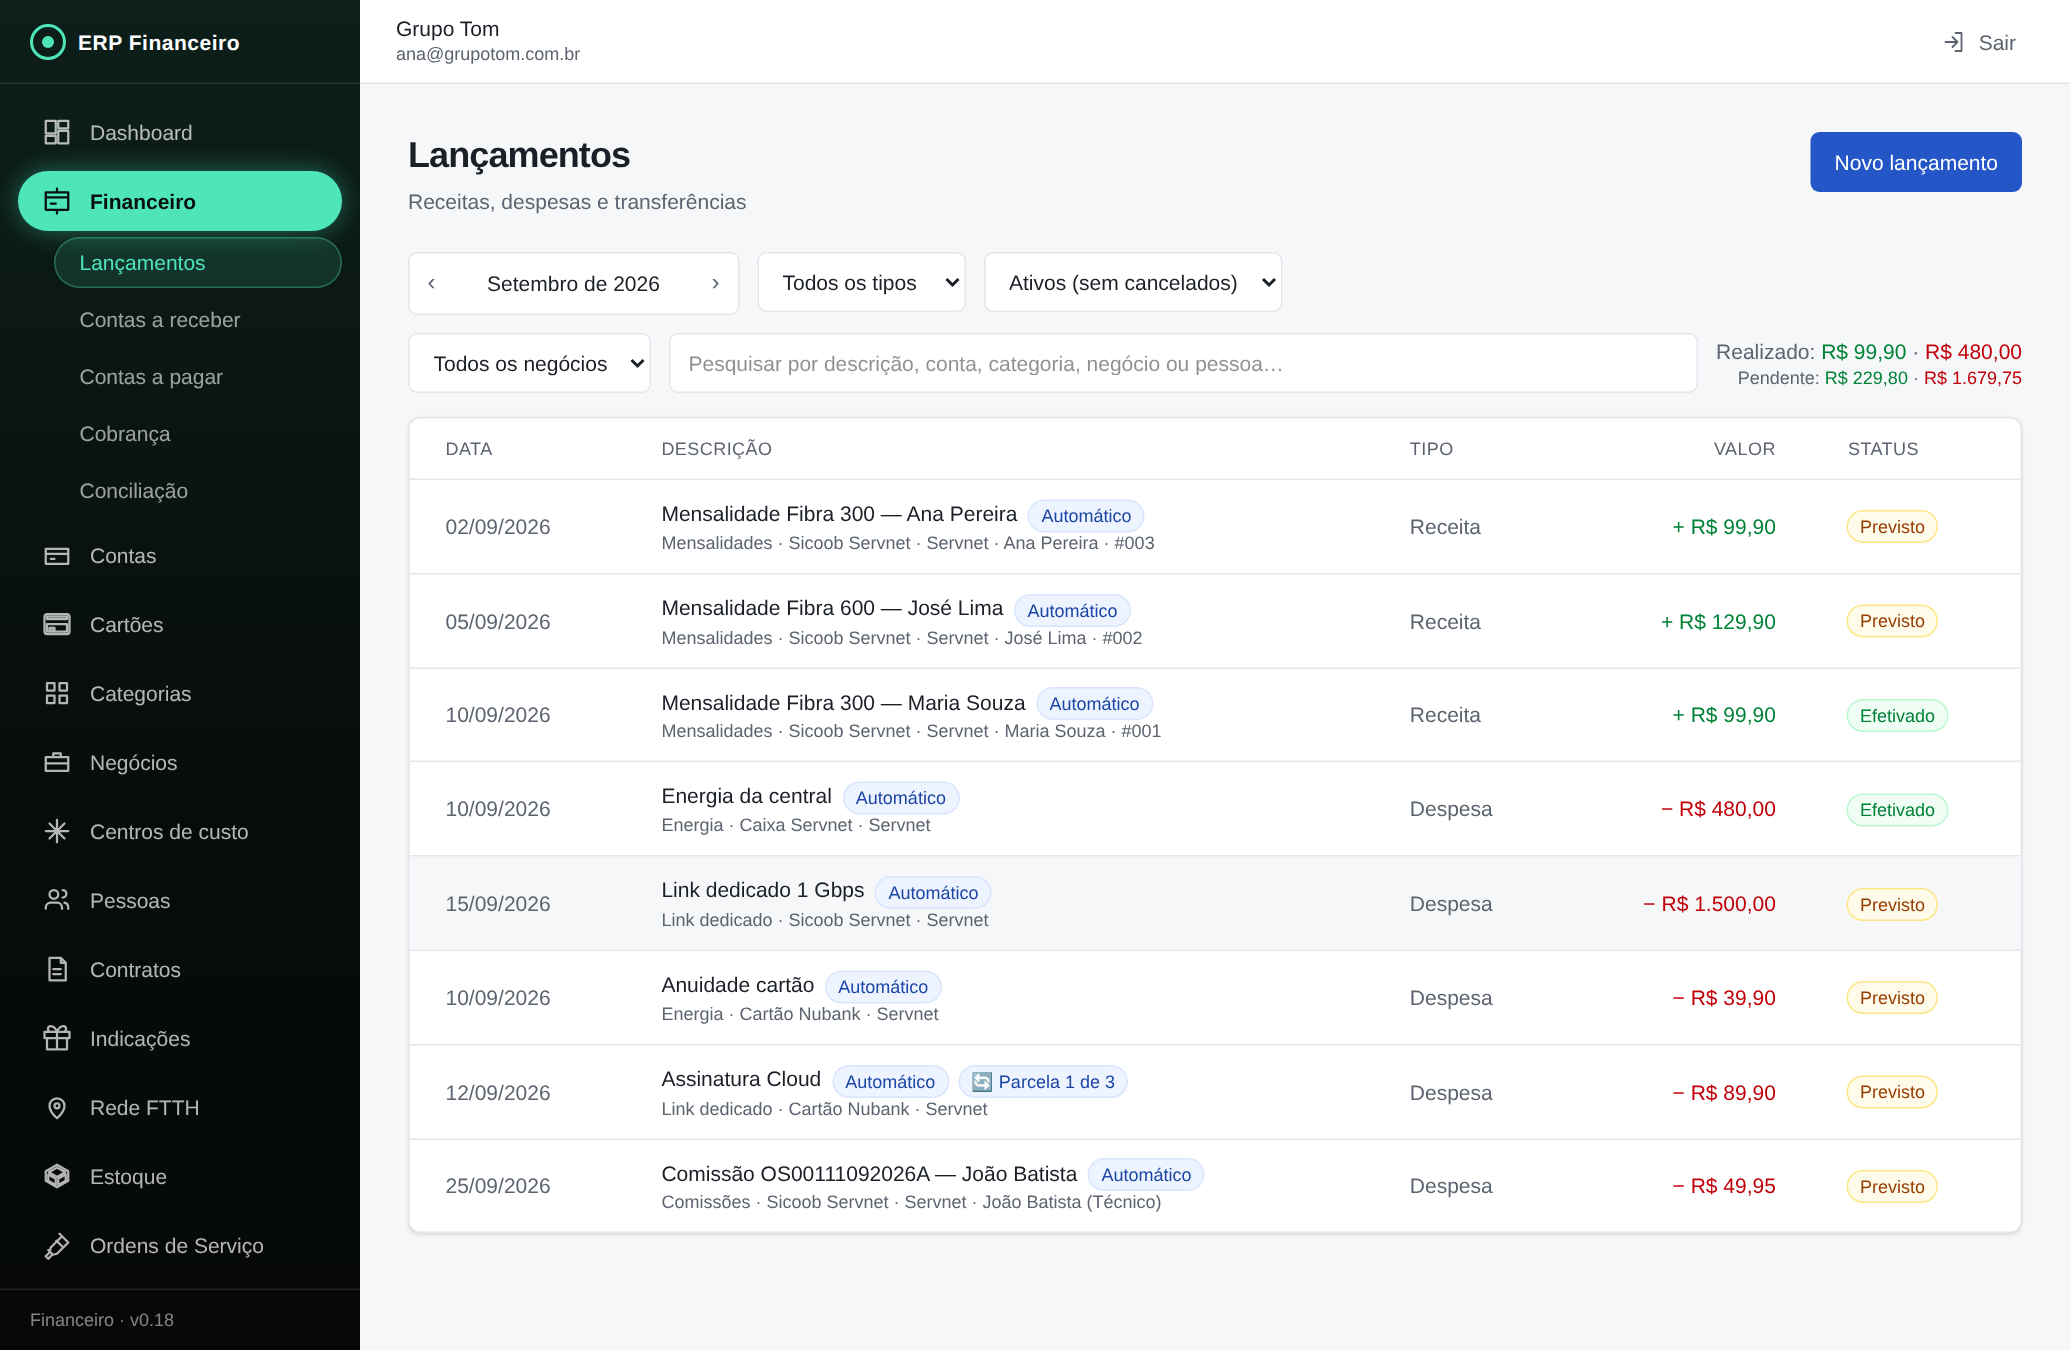
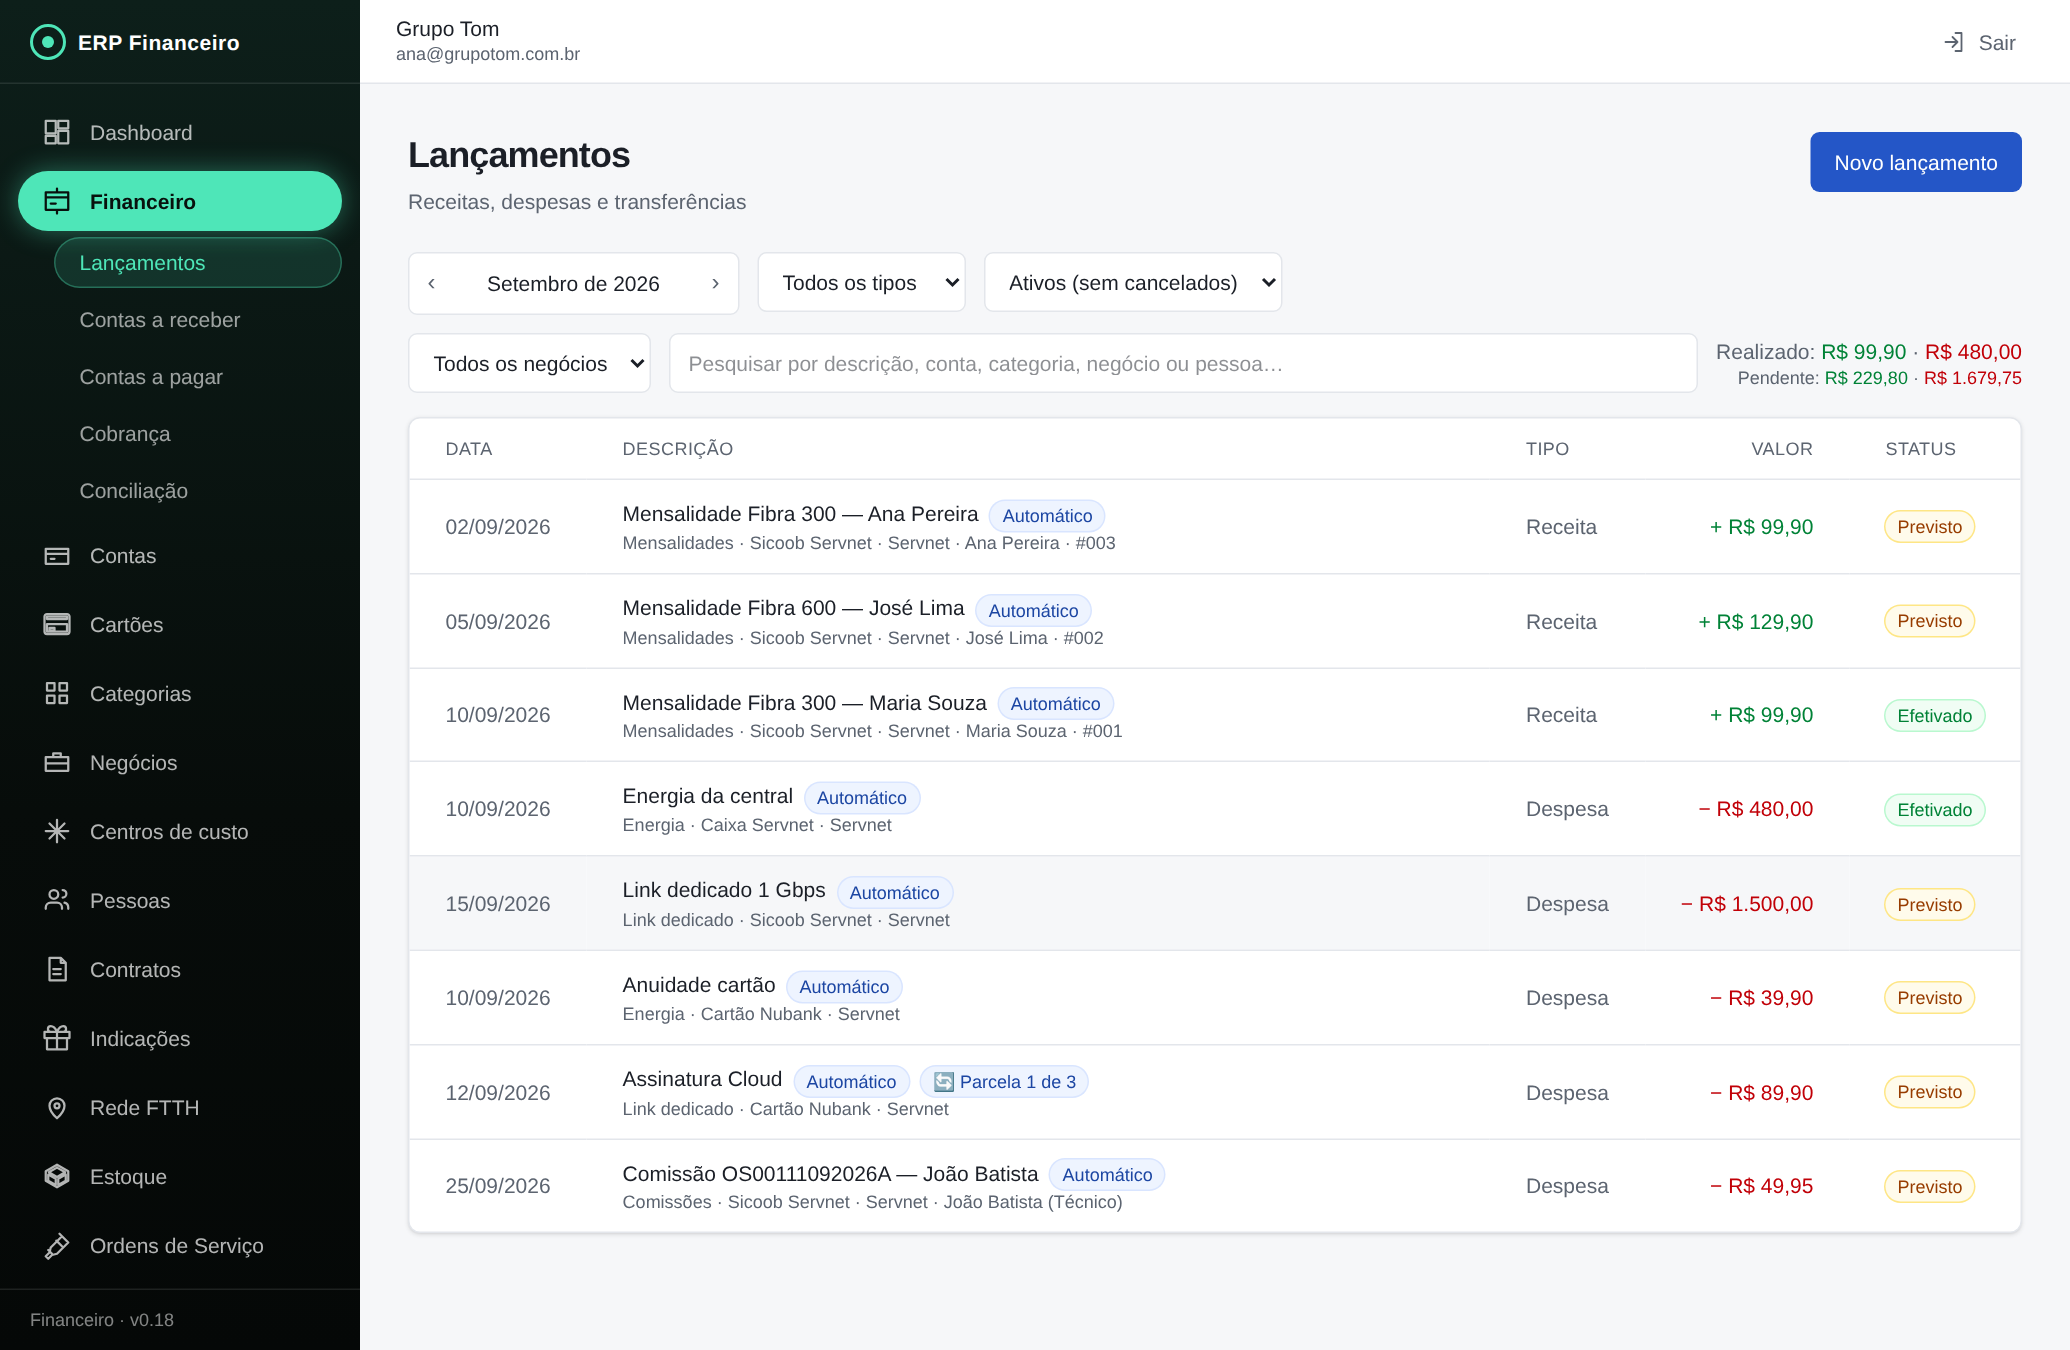
layout: usar a largura da tela nas listas (descrição não quebra mais)
O conteúdo estava preso em max-w-6xl (1152px): num monitor comum sobrava
tela à direita enquanto a descrição quebrava em 3-4 linhas e a última ação
('Cancelar') saía cortada. Teto passa para 110rem — ainda limita em tela
ultrawide, mas deixa a lista respirar no monitor de verdade.

Coluna Descrição ganha w-full nas tabelas de Lançamentos e Contas: ela
absorve a folga e as demais colunas ficam no tamanho natural.

Prints regerados.

Claude-Session: https://claude.ai/code/session_01LvKVVJXHUTGGnyzXpwt5fU

diff --git a/app/src/modules/financeiro/pages/ContasPage.tsx b/app/src/modules/financeiro/pages/ContasPage.tsx
@@ -302,7 +302,7 @@ function ContasPage({ tipo }: { tipo: 'receita' | 'despesa' }) {
             </ul>
             {/* Desktop: tabela completa */}
             <div className="hidden overflow-x-auto sm:block"><table className="w-full text-sm">
-              <thead className="text-left text-xs uppercase tracking-wide text-ink-muted"><tr className="border-b border-line"><th className="whitespace-nowrap px-4 py-3 font-medium">Vencimento</th><th className="px-4 py-3 font-medium">Descrição</th><th className="whitespace-nowrap px-4 py-3 font-medium">{receber ? 'Cliente' : 'Fornecedor'}</th><th className="whitespace-nowrap px-4 py-3 text-right font-medium">Valor</th><th className="whitespace-nowrap px-4 py-3 font-medium">Situação</th><th className="px-4 py-3"></th></tr></thead>
+              <thead className="text-left text-xs uppercase tracking-wide text-ink-muted"><tr className="border-b border-line"><th className="whitespace-nowrap px-4 py-3 font-medium">Vencimento</th><th className="w-full px-4 py-3 font-medium">Descrição</th><th className="whitespace-nowrap px-4 py-3 font-medium">{receber ? 'Cliente' : 'Fornecedor'}</th><th className="whitespace-nowrap px-4 py-3 text-right font-medium">Valor</th><th className="whitespace-nowrap px-4 py-3 font-medium">Situação</th><th className="px-4 py-3"></th></tr></thead>
               <tbody>{linhasExibidas.map((x) => {
                 if ('fatura' in x) {
                   const chave = `${x.contaId}|${x.vencimento}`

diff --git a/app/src/core/layout/AppShell.tsx b/app/src/core/layout/AppShell.tsx
@@ -30,7 +30,10 @@ export function AppShell({ modulos }: { modulos: DefinicaoModulo[] }) {
         <div className="flex min-w-0 flex-1 flex-col">
           <BarraSuperior aoAbrirMenu={() => setMenuAberto(true)} />
           <main className="flex-1 overflow-y-auto p-4 md:p-8">
-            <div className="mx-auto max-w-6xl">
+            {/* largura: as listas (lançamentos, contas, contratos) precisam de espaço — com
+                max-w-6xl a descrição quebrava em 4 linhas e as ações saíam da tela num monitor
+                comum. Ainda há um teto para não esticar demais em tela ultrawide. */}
+            <div className="mx-auto max-w-[110rem]">
               <ErrorBoundary>
                 <Outlet />
               </ErrorBoundary>

diff --git a/app/src/modules/lancamentos/pages/LancamentosPage.tsx b/app/src/modules/lancamentos/pages/LancamentosPage.tsx
@@ -304,7 +304,7 @@ export function LancamentosPage() {
                   <thead className="text-left text-xs uppercase tracking-wide text-ink-muted">
                     <tr className="border-b border-line">
                       <th className="px-6 py-3 font-medium">Data</th>
-                      <th className="px-6 py-3 font-medium">Descrição</th>
+                      <th className="w-full px-6 py-3 font-medium">Descrição</th>
                       <th className="px-6 py-3 font-medium">Tipo</th>
                       <th className="px-6 py-3 text-right font-medium">Valor</th>
                       <th className="px-6 py-3 font-medium">Status</th>
